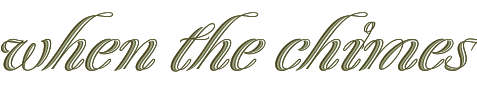
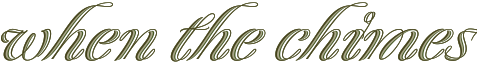
Home page working

Changed region(s): [[0.0, 0.0244, 1.0, 0.7561]]

diff --git a/_site/index.html b/_site/index.html
@@ -12,9 +12,9 @@
 
   <meta name="viewport" content="width=device-width">
 
-  <link rel="stylesheet" href="css/styles.css">
+  <link rel="stylesheet" href="/css/styles.css">
 
-  <script src="js/modernizr-2.5.3.min.js"></script>
+  <script src="/js/modernizr-2.5.3.min.js"></script>
 	<script type="text/javascript" src="http://use.typekit.com/qrs0esm.js"></script>
 	<script type="text/javascript">try{Typekit.load();}catch(e){}</script>
 	
@@ -25,7 +25,7 @@
        chromium.org/developers/how-tos/chrome-frame-getting-started -->
   <!--[if lt IE 7]><p class=chromeframe>Your browser is really, really bad. <a href="http://browsehappy.com/">Upgrade to a better browser</a> or <a href="http://www.google.com/chromeframe/?redirect=true">install Google Chrome Frame</a> to experience this site.</p><![endif]-->
   <nav>
-		<a href="/"><img src="img/cgslogo.png" alt="Cars, Girls, and Surfing logo dot png"></a>
+		<a href="/"><img src="/img/cgslogo.png" alt="Cars, Girls, and Surfing logo dot png"></a>
 		<ul>
 			<li>blog</li>
 			<li>contact</li>
@@ -46,33 +46,63 @@
 <p>If you do have feedback or would like to participate, we are <a href="http://twitter.com/andsurfing">@andsurfing</a> on the twitter, and you may be able to occasionally find us in #thekitchen channel on freenode.</p>
 
 
+<h2>Our Shows</h2>
+
 <section class="listing meditation">
-	<h2><a href="meditating">Who is Meditating?</a></h2>
+	<h2><a href="/meditating"><img src="/img/who-is-meditating.png" alt="Who is Meditating?"></a></h2>
 	<p class="show_description">A show about spirituality, meditation, and real-world problems from a Buddhist perspective.</p>
+	<p class="hosts">Joel Baehr</p>
+	<h4>Episodes</h4>
 	<ul>
 			
-		<li>Episode 1 - Thinking</li>
+		<li><a href="/meditating/3/">3 - Lorem Ipsum</a></li>
+			
+		<li><a href="/meditating/2/">2 - Bad Things</a></li>
+			
+		<li><a href="/meditating/1/">1 - Thinking</a></li>
 			
 	</ul>
-	<p><a href="meditating">More shows→</a></p>
+	<p class="more"><a href="/meditating">earlier shows→</a></p>
 </section>
 
 <section class="listing farming">
-	<h2><a href="farming">Farming on the Brink</a></h2>
+	<h2><a href="/farming"><img src="/img/farming.png" alt="Farming"><img src="/img/on-the-brink.png" alt="on the Brink"></a></h2>
 	<p class="show_description">A show about farming.</p>
+	<p class="hosts">Bob Comis</p>
 	<ul>
 			
 	</ul>
-	<p><a href="farming">More shows→</a></p>
+	<p class="more"><a href="/farming">earlier shows→</a></p>
 </section>
 
 <section class="listing wrong">
-	<h2><a href="wrong">Am I Wrong?</a></h2>
-	<p class="show_description">A show discussing things we love, and things we think are inherently flawed. We have differing opinions and nothing is out of bounds.</p>
+	<h2><a href="/wrong"><img src="/img/am-i-wrong.png" alt="Am I Wrong?"></a></h2>
+	<p class="show_description">A show discussing things we love, and things we think are flawed. We have differing opinions and nothing is out of bounds.</p>
+	<p class="hosts">Mike Force, Zach Phillips</p>
 	<ul>
 			
 	</ul>
-	<p><a href="wrong">More shows→</a></p>
+	<p class="more"><a href="/wrong">earlier shows→</a></p>
+</section>
+
+<section class="listing chimes">
+	<h2><a href="/chimes"><img src="/img/when-the-chimes.png" alt="When the Chimes"><img src="/img/ring-like-this.png" alt="Ring Like This"></a></h2>
+	<p class="show_description">A show about music.</p>
+	<p class="hosts">Elizabeth Luttinger</p>
+	<ul>
+			
+	</ul>
+	<p class="more"><a href="/chimes">earlier shows→</a></p>
+</section>
+
+<section class="listing shot">
+	<h2><a href="/shot"><img src="/img/shot-reverse-shot.png" alt="Shot Reverse Shot"></a></h2>
+	<p class="show_description">Interviews. Very few of them. On video.</p>
+	<p class="hosts">Zach Phillips</p>
+	<ul>
+			
+	</ul>
+	<p class="more"><a href="/shot">earlier shows→</a></p>
 </section>
 
 		</div>
@@ -82,8 +112,8 @@
  	<script>window.jQuery || document.write('<script src="js/jquery-1.7.1.min.js"><\/script>')</script>
 
  <!-- scripts concatenated and minified via build script -->
- 	<script src="js/plugins.js"></script>
- 	<script src="js/script.js"></script>
+ 	<script src="/js/plugins.js"></script>
+ 	<script src="/js/script.js"></script>
  <!-- end scripts -->
 
  <!-- Asynchronous Google Analytics snippet. Change UA-XXXXX-X to be your site's ID.

diff --git a/_layouts/home.html b/_layouts/home.html
@@ -4,35 +4,65 @@ layout: default
 
 {{ content }}
 
+<h2>Our Shows</h2>
+
 <section class="listing meditation">
-	<h2><a href="meditating">Who is Meditating?</a></h2>
+	<h2><a href="/meditating"><img src="/img/who-is-meditating.png" alt="Who is Meditating?"></a></h2>
 	<p class="show_description">A show about spirituality, meditation, and real-world problems from a Buddhist perspective.</p>
+	<p class="hosts">Joel Baehr</p>
+	<h4>Episodes</h4>
 	<ul>
 		{% for post in site.categories.meditating limit:5 %}	
-		<li>Episode {{ post.number }} - {{ post.title }}</li>
+		<li><a href="{{ post.url }}">{{ post.number }} - {{ post.title }}</a></li>
 		{% endfor %}	
 	</ul>
-	<p><a href="meditating">More shows→</a></p>
+	<p class="more"><a href="/meditating">earlier shows→</a></p>
 </section>
 
 <section class="listing farming">
-	<h2><a href="farming">Farming on the Brink</a></h2>
+	<h2><a href="/farming"><img src="/img/farming.png" alt="Farming"><img src="/img/on-the-brink.png" alt="on the Brink"></a></h2>
 	<p class="show_description">A show about farming.</p>
+	<p class="hosts">Bob Comis</p>
 	<ul>
 		{% for post in site.categories.farming limit:5 %}	
-		<li>Episode {{ post.number }} - {{ post.title }}</li>
+		<li><a href="{{ post.url }}">Episode {{ post.number }} - {{ post.title }}</a></li>
 		{% endfor %}	
 	</ul>
-	<p><a href="farming">More shows→</a></p>
+	<p class="more"><a href="/farming">earlier shows→</a></p>
 </section>
 
 <section class="listing wrong">
-	<h2><a href="wrong">Am I Wrong?</a></h2>
-	<p class="show_description">A show discussing things we love, and things we think are inherently flawed. We have differing opinions and nothing is out of bounds.</p>
+	<h2><a href="/wrong"><img src="/img/am-i-wrong.png" alt="Am I Wrong?"></a></h2>
+	<p class="show_description">A show discussing things we love, and things we think are flawed. We have differing opinions and nothing is out of bounds.</p>
+	<p class="hosts">Mike Force, Zach Phillips</p>
 	<ul>
 		{% for post in site.categories.wrong limit:5 %}	
-		<li>Episode {{ post.number }} - {{ post.title }}</li>
+		<li><a href="{{ post.url }}">Episode {{ post.number }} - {{ post.title }}</a></li>
 		{% endfor %}	
 	</ul>
-	<p><a href="wrong">More shows→</a></p>
+	<p class="more"><a href="/wrong">earlier shows→</a></p>
+</section>
+
+<section class="listing chimes">
+	<h2><a href="/chimes"><img src="/img/when-the-chimes.png" alt="When the Chimes"><img src="/img/ring-like-this.png" alt="Ring Like This"></a></h2>
+	<p class="show_description">A show about music.</p>
+	<p class="hosts">Elizabeth Luttinger</p>
+	<ul>
+		{% for post in site.categories.wrong limit:5 %}	
+		<li><a href="{{ post.url }}">Episode {{ post.number }} - {{ post.title }}</a></li>
+		{% endfor %}	
+	</ul>
+	<p class="more"><a href="/chimes">earlier shows→</a></p>
+</section>
+
+<section class="listing shot">
+	<h2><a href="/shot"><img src="/img/shot-reverse-shot.png" alt="Shot Reverse Shot"></a></h2>
+	<p class="show_description">Interviews. Very few of them. On video.</p>
+	<p class="hosts">Zach Phillips</p>
+	<ul>
+		{% for post in site.categories.wrong limit:5 %}	
+		<li><a href="{{ post.url }}">Episode {{ post.number }} - {{ post.title }}</a></li>
+		{% endfor %}	
+	</ul>
+	<p class="more"><a href="/shot">earlier shows→</a></p>
 </section>

diff --git a/css/styles.css b/css/styles.css
@@ -72,6 +72,9 @@ section#main {
     section#main {
       width: 77%;
       padding: 0 0 0 140px; } }
+  @media screen and (min-width:801px) {
+    section#main {
+      width: 85%; } }
 
 div.wrapper {
   padding: 0 1px 0 0; }
@@ -80,15 +83,52 @@ div.wrapper {
       padding: 0px 30px; } }
 
 section.listing {
+  position: relative;
   float: left;
   background: #fff;
   padding: 10px;
-  margin: 5px 10px 5px 0px;
-  width: 280px;
-  height: 400px;
+  margin: 5px 0;
+  width: 93%;
+  height: 300px;
   -webkit-border-radius: 6px 6px 6px 6px;
   -moz-border-radius: 6px 6px 6px 6px;
   border-radius: 6px 6px 6px 6px;
   -webkit-box-shadow: 0 2px 3px rgba(0, 0, 0, 0.25);
   -moz-box-shadow: 0 2px 3px rgba(0, 0, 0, 0.25);
   box-shadow: 0 2px 3px rgba(0, 0, 0, 0.25); }
+  section.listing ul {
+    padding-left: 0px; }
+  section.listing ul li {
+    list-style: none;
+    padding: 0 0 2px 0;
+    font-size: 14px; }
+  section.listing ul li a {
+    font-weight: 400; }
+  section.listing h4 {
+    color: #796b7d;
+    padding-left: 0px;
+    margin-top: 0px;
+    margin-bottom: -5px; }
+  section.listing p.hosts {
+    font-size: 13px;
+    font-weight: 600; }
+    section.listing p.hosts:before {
+      content: 'with '; }
+  section.listing p.show_description {
+    font-size: 13px;
+    font-style: italic;
+    margin-top: -20px; }
+  section.listing p.more {
+    position: absolute;
+    text-transform: lowercase;
+    font-style: italic;
+    font-size: 12px;
+    bottom: 0px;
+    right: 10px; }
+  section.listing img {
+    width: 100%;
+    margin-top: -15px; }
+  @media screen and (min-width:481px) {
+    section.listing {
+      width: 280px;
+      margin: 5px 10px 5px 0px; } }

diff --git a/_layouts/default.html b/_layouts/default.html
@@ -12,9 +12,9 @@
 
   <meta name="viewport" content="width=device-width">
 
-  <link rel="stylesheet" href="css/styles.css">
+  <link rel="stylesheet" href="/css/styles.css">
 
-  <script src="js/modernizr-2.5.3.min.js"></script>
+  <script src="/js/modernizr-2.5.3.min.js"></script>
 	<script type="text/javascript" src="http://use.typekit.com/qrs0esm.js"></script>
 	<script type="text/javascript">try{Typekit.load();}catch(e){}</script>
 	
@@ -25,7 +25,7 @@
        chromium.org/developers/how-tos/chrome-frame-getting-started -->
   <!--[if lt IE 7]><p class=chromeframe>Your browser is really, really bad. <a href="http://browsehappy.com/">Upgrade to a better browser</a> or <a href="http://www.google.com/chromeframe/?redirect=true">install Google Chrome Frame</a> to experience this site.</p><![endif]-->
   <nav>
-		<a href="/"><img src="img/cgslogo.png" alt="Cars, Girls, and Surfing logo dot png"></a>
+		<a href="/"><img src="/img/cgslogo.png" alt="Cars, Girls, and Surfing logo dot png"></a>
 		<ul>
 			<li>blog</li>
 			<li>contact</li>
@@ -46,8 +46,8 @@
  	<script>window.jQuery || document.write('<script src="js/jquery-1.7.1.min.js"><\/script>')</script>
 
  <!-- scripts concatenated and minified via build script -->
- 	<script src="js/plugins.js"></script>
- 	<script src="js/script.js"></script>
+ 	<script src="/js/plugins.js"></script>
+ 	<script src="/js/script.js"></script>
  <!-- end scripts -->
 
  <!-- Asynchronous Google Analytics snippet. Change UA-XXXXX-X to be your site's ID.

diff --git a/css/_home.scss b/css/_home.scss
@@ -100,6 +100,9 @@ section#main	{
 		width:77%;
 		padding:0 0 0 140px;
 	}
+	@media screen and (min-width:801px) {
+		width:85%;
+	}
 }
 
 div.wrapper {
@@ -110,16 +113,62 @@ div.wrapper {
 }
 
 section.listing {
+	position:relative;
+	ul {
+		padding-left:0px;
+	}
+	ul li {
+		list-style:none;
+		padding:0 0 2px 0;
+		font-size:14px;
+	}
+	ul li a {
+		font-weight:400;
+	}
+	h4 {
+		color:$purple;
+		padding-left:0px;
+		margin-top:0px;
+		margin-bottom:-5px;
+	}
+	p.hosts {
+		font-size:13px;
+		font-weight:600;
+		&:before {
+			content:'with ';
+		}
+	}
+	p.show_description {
+		font-size:13px;
+		font-style:italic;
+		margin-top:-20px;
+	}
+	p.more {
+		position:absolute;
+		text-transform:lowercase;
+		font-style:italic;
+		font-size:12px;
+		bottom:0px;
+		right:10px;
+	}
+	img {
+		width:100%;
+		margin-top:-15px;
+	}
 	float:left;
 	background:#fff;
 	padding:10px;
-	margin:5px 10px 5px 0px;
-	width:280px;
-	height:400px;
+	margin:5px 0;
+	width:93%;
+	height:300px;
 	-webkit-border-radius: 6px 6px 6px 6px;
      -moz-border-radius: 6px 6px 6px 6px;
           border-radius: 6px 6px 6px 6px;
   -webkit-box-shadow: 0 2px 3px rgba(0,0,0,.25);
      -moz-box-shadow: 0 2px 3px rgba(0,0,0,.25);
           box-shadow: 0 2px 3px rgba(0,0,0,.25);
+	@media screen and (min-width:481px) {
+		width:280px;
+		margin:5px 10px 5px 0px;
+	}
 }

diff --git a/_layouts/single.html b/_layouts/single.html
@@ -1,0 +1,5 @@
+---
+layout: default
+---
+
+{{ content }}

diff --git a/_posts/2012-04-05-3.md b/_posts/2012-04-05-3.md
@@ -1,0 +1,10 @@
+---
+layout: single
+categories: meditating
+number: 3
+title: Lorem Ipsum
+---
+
+#testing
+
+Lorem ipsum dolor sit amet, consectetur adipiscing elit. Sed quam ante, feugiat eu mattis pretium, posuere non leo. In egestas dui ut purus volutpat faucibus. Curabitur blandit rutrum ante, ut varius libero interdum non. Curabitur lobortis, justo sit amet vestibulum viverra, erat felis vestibulum tellus, elementum pharetra lectus magna sed arcu. Ut a adipiscing lacus. Class aptent taciti sociosqu ad.

diff --git a/_posts/2012-04-04-2.md b/_posts/2012-04-04-2.md
@@ -1,0 +1,10 @@
+---
+layout: single
+categories: meditating
+number: 2
+title: Bad Things
+---
+
+#testing
+
+Lorem ipsum dolor sit amet, consectetur adipiscing elit. Sed quam ante, feugiat eu mattis pretium, posuere non leo. In egestas dui ut purus volutpat faucibus. Curabitur blandit rutrum ante, ut varius libero interdum non. Curabitur lobortis, justo sit amet vestibulum viverra, erat felis vestibulum tellus, elementum pharetra lectus magna sed arcu. Ut a adipiscing lacus. Class aptent taciti sociosqu ad.

diff --git a/_posts/2012-04-03-1.md b/_posts/2012-04-03-1.md
@@ -1,4 +1,5 @@
 ---
+layout: single
 categories: meditating
 number: 1
 title: Thinking
